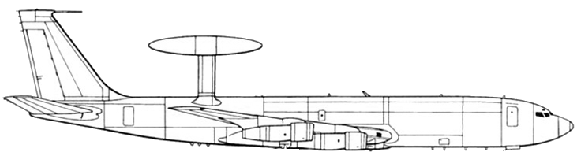
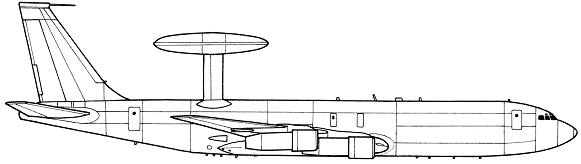
new images for e3

Changed region(s): [[0.0, 0.0, 1.0, 0.9811]]

diff --git a/shilka2/classes/Aircraft.cs b/shilka2/classes/Aircraft.cs
@@ -278,7 +278,7 @@ namespace shilka2
                                 aircraftName: "e3",
                                 hitPoint: 150,
                                 aircraftWidth: 581,
-                                aircraftHeight: 159,
+                                aircraftHeight: 164,
                                 price: 270,
                                 speed: 8
                             ); break;
